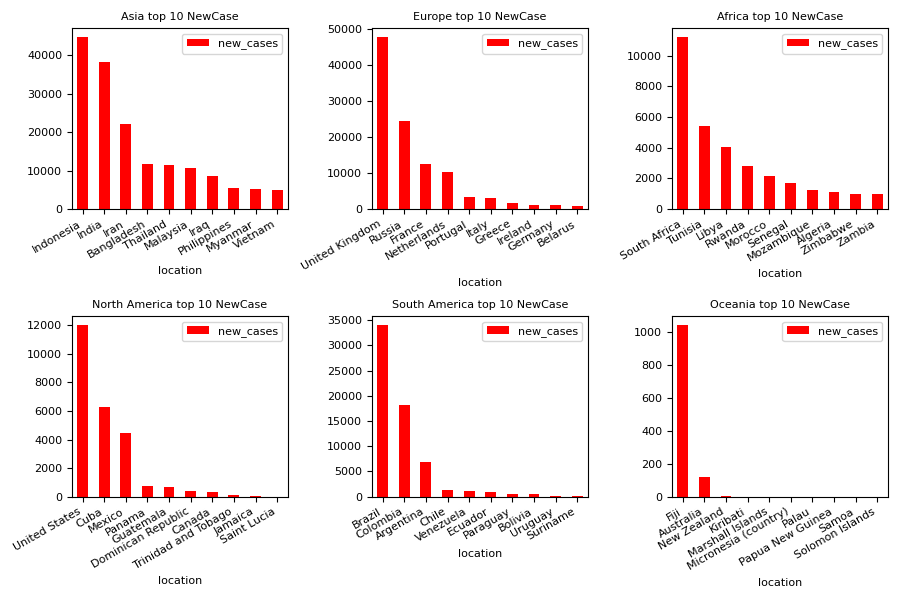
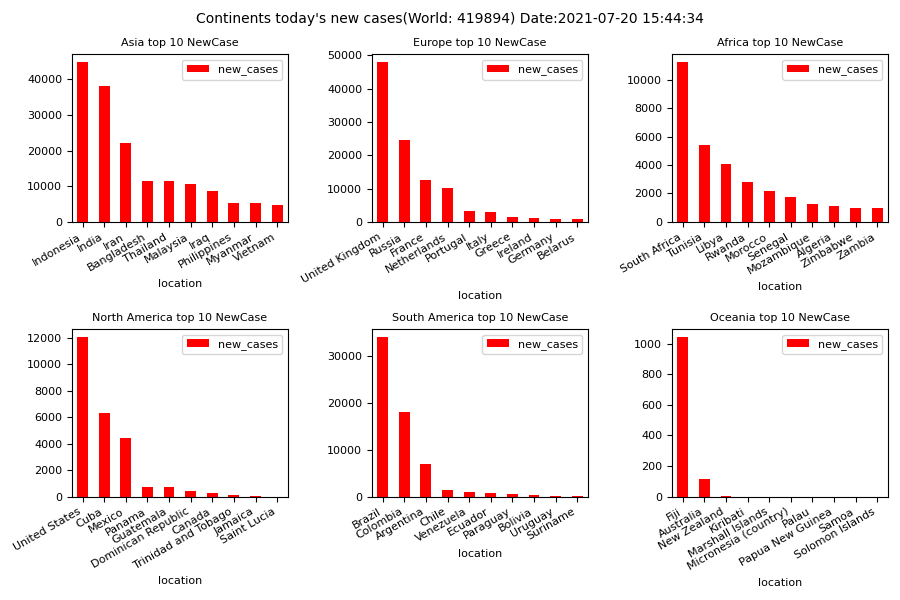
updated to 20/JuL/21

diff --git a/coronavirus/plotCoronavirous.py b/coronavirus/plotCoronavirous.py
@@ -774,19 +774,18 @@ def plotCountriesFromOurWorld(csvpath=r'./OurWrold/'): #From ourworld data
         dfData = df.iloc[:top, :] #[df.columns.get_loc(columnLabel)]
         return dfData #dfData['location']
     
-
     saveCountriesInfoFromCsv(csvpath)
     
     casesFile = os.path.join(csvpath, 'cases.csv')
     df = readCsv(casesFile)
     plotWorldCases(df)
- 
+
     countriesPath = r'./dataCountry/'
     dfToday = getAllOurWorldNew(countriesPath)
     
     plotContinentCases(dfToday)
     plotCountriesCases(dfToday)
-  
+
     #dfToday.set_index(["location"], inplace=True)  
     
     #plot country by time      
@@ -1000,7 +999,7 @@ def plotCountriesCases(df):
             save=True, show=False, color=color, figsize=(8,5), left=0.3,bottom=0.1)
     
     plt.show()
-    
+
    
     ####top continent countries######
     continents = list(df.continent.unique())
@@ -1010,33 +1009,24 @@ def plotCountriesCases(df):
     kind='bar' #['line','bar','barh','hist','box','kde','density','area']  
     plotAll=[]
     
+    columnLabel = 'new_cases'
     for continent in continents:
         #print('continent=', continent) #['Asia', 'Europe', 'Africa', 'North America', 'South America', 'Oceania']
         dfCountries = df[df['continent'] == continent] 
-        
-        # columnLabel = 'total_cases'
-        # dfData = getTopData(dfCountries, top, columnLabel, binary=False)
-        # title = continent + ' top '+str(top) + ' Confirmed(World: ' + str(int(dfWorld[columnLabel])) + ')' + getDateStr()    
-        # color='#1f77b4'
-        # plotAll.append((columnLabel, dfData, kind, title, color))
-        
+                
         color='r'
-        columnLabel = 'new_cases'
         dfData = getTopData(dfCountries, top, columnLabel, binary=False)
         #title = continent + ' top '+str(top) + ' NewCase(World: ' + str(int(dfWorld[columnLabel])) + ')' + getDateStr()    
         title = continent + ' top '+str(top) + ' NewCase'
         plotAll.append((columnLabel, dfData, kind, title, color))
         
-        # columnLabel = 'new_deaths'
-        # dfData = getTopData(dfCountries, top, columnLabel, binary=False)
-        # title = continent + ' top '+str(top) + ' New Deaths(World: ' + str(int(dfWorld[columnLabel])) + ')' + getDateStr()    
-        # plotAll.append((columnLabel, dfData, kind, title, color))
-        
     print('plotAll len=', len(plotAll))
 
     nrow=2
     ncol=3
+    title = 'Continents today\'s new cases(World: ' + str(int(dfWorld[columnLabel])) + ')' + getDateStr() 
     fig, axes = plt.subplots(nrow, ncol, figsize=(9,6))    
+    fig.suptitle(title, fontsize=10)
     for i, value in enumerate(plotAll):
         columnLabel, dfData, kind, title, color = value
         
@@ -1050,16 +1040,19 @@ def plotCountriesCases(df):
     
     
     plotAll=[]
+    columnLabel = 'new_deaths'
     for continent in continents:
         dfCountries = df[df['continent'] == continent]         
         color='r'
-        columnLabel = 'new_deaths'
+        
         dfData = getTopData(dfCountries, top, columnLabel, binary=False)
         #title = continent + ' top '+str(top) + ' NewCase(World: ' + str(int(dfWorld[columnLabel])) + ')' + getDateStr()    
         title = continent + ' top '+str(top) + ' New Deaths'
         plotAll.append((columnLabel, dfData, kind, title, color))
         
+    title = 'Continents today\'s new deaths(World: ' + str(int(dfWorld[columnLabel])) + ')' + getDateStr() 
     fig, axes = plt.subplots(nrow, ncol, figsize=(9,6))    
+    fig.suptitle(title, fontsize=10)
     for i, value in enumerate(plotAll):
         columnLabel, dfData, kind, title, color = value
         
